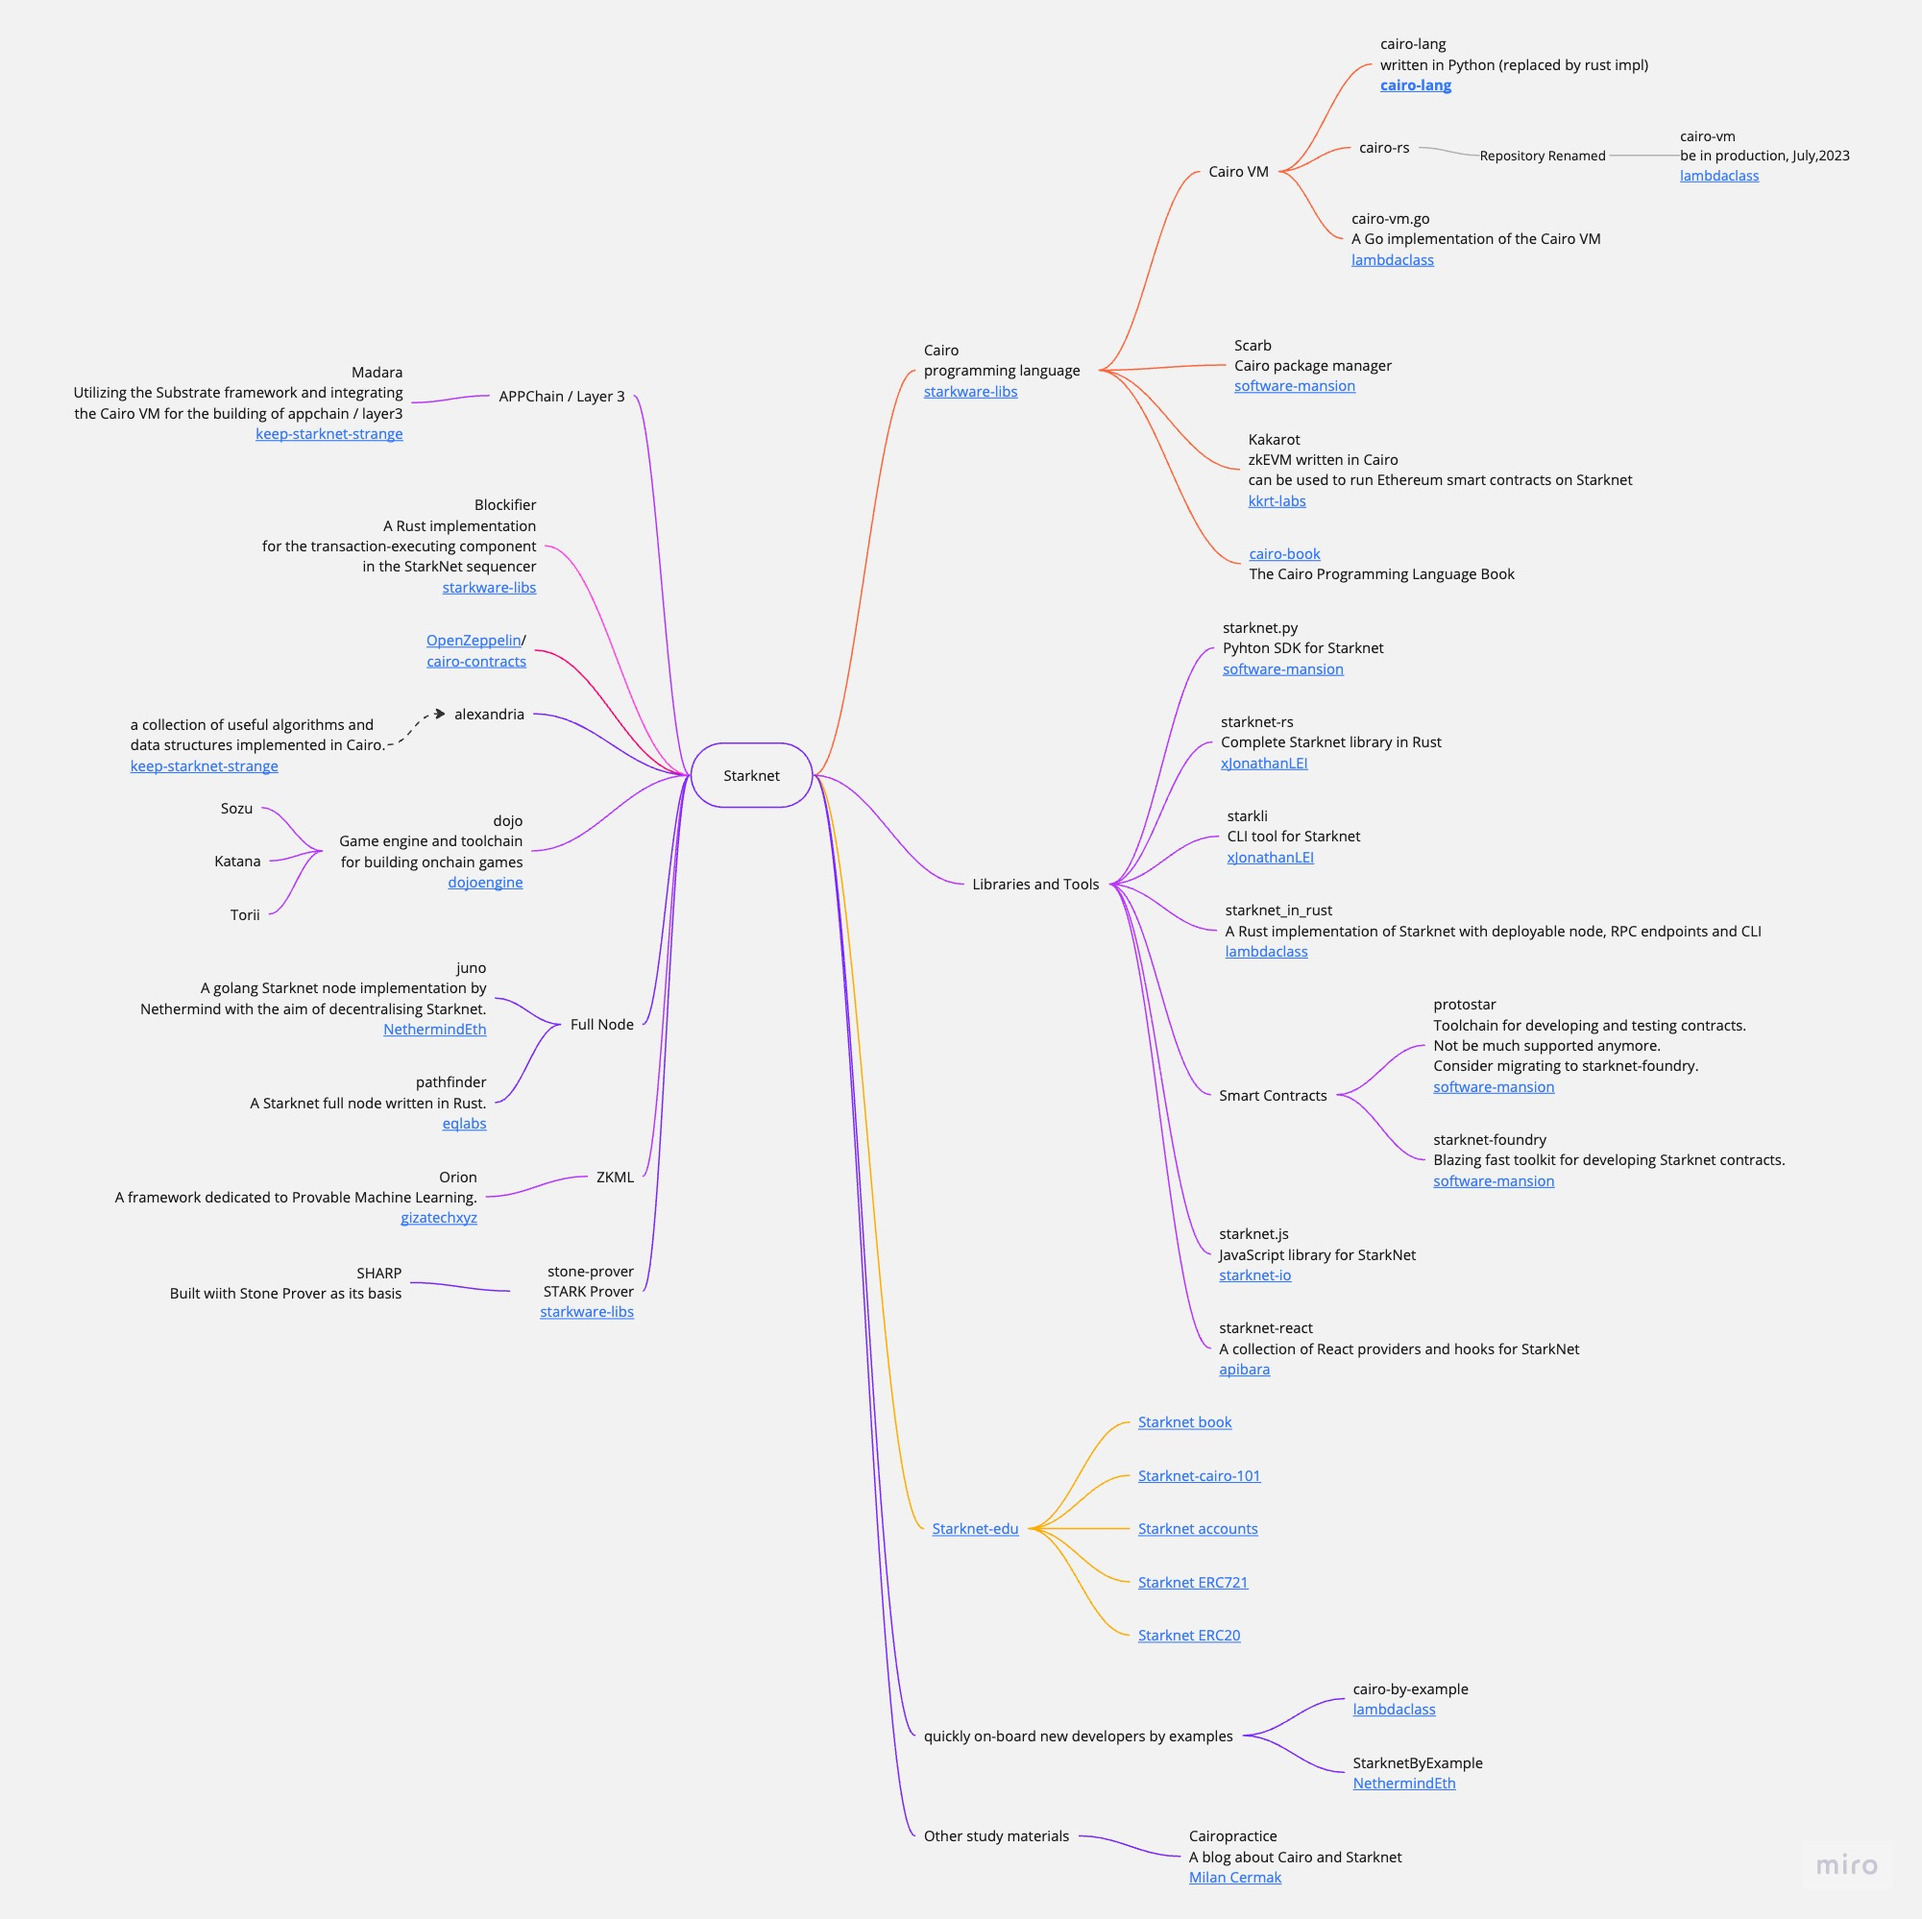
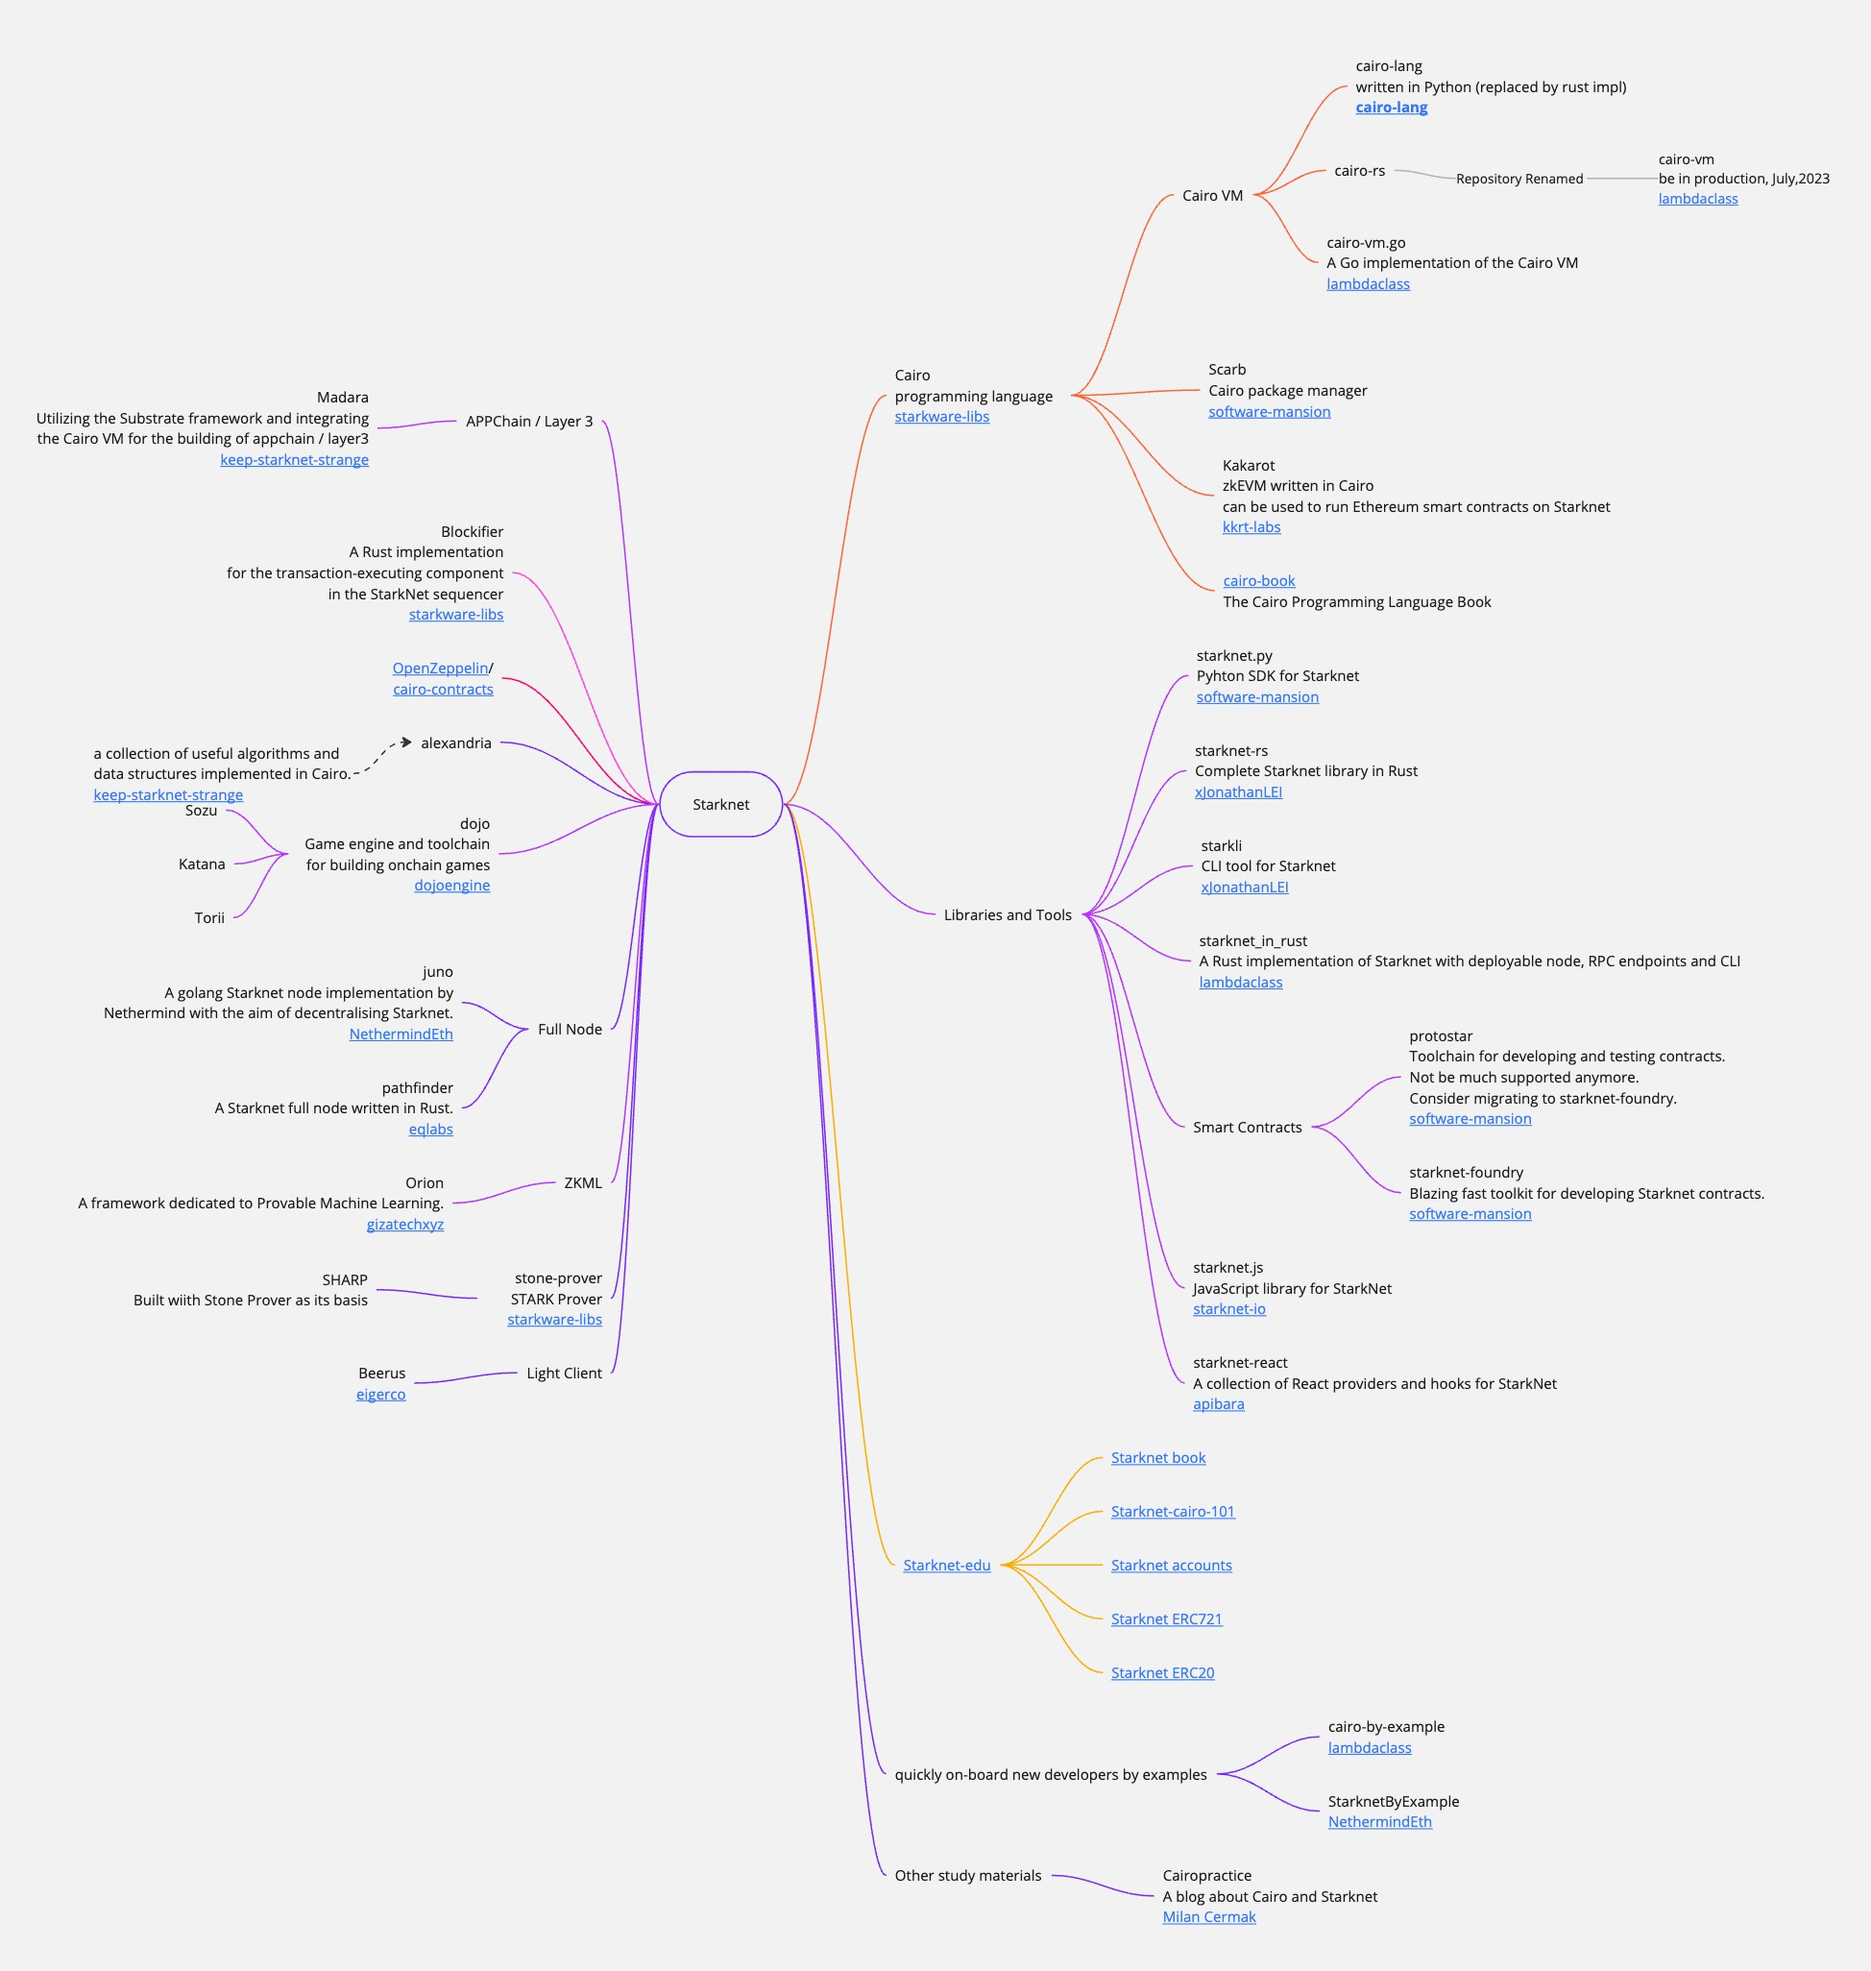
add beerus

diff --git a/README.md b/README.md
@@ -61,6 +61,8 @@ The mind map is organized into the following categories:
   - [Sharp](#sharp)
 - [Other study materials](#other-study-materials)
   - [Cairopractice](#cairopractice)
+- [Light Client](#light-client)
+  - [Beerus](#beerus)
 
 ## Cairo
 
@@ -267,6 +269,14 @@ StarkWare built the SHARP system with this Prover as its basis.
 A blog about Cairo and Starknet.
 
 https://cairopractice.com/
+
+## Light Client
+
+### Beerus
+
+A light client for StarkNet.
+
+https://github.com/eigerco/beerus
 
 ## Contribute
 
